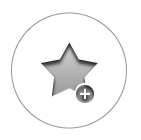
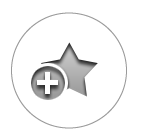
Variables/methods: ------------------
Implemented circular menu buttons share page and finger model.

Added SHARE_GESTURE variable in SwifteeApplication, TODO share URL and name not only name. 

Single/Multi finger interation implemented and works like charm. 

Located Help button inside Settings.

On FloatingCursor implemented new moveHitTest() with single finger timers that now change the ring color. 

On BrowserActivity I implemented setRingcolor() to change the rings color timeout on single finger operation model.
TODO, the execution selection is still blue.

Assets:
-------

Circular Menu new buttons. Share page and single/multi finger operations. 
Share gesture library "share_gestures".

Changed region(s): [[0.1986, 0.4286, 0.5106, 0.7143], [0.5106, 0.5714, 0.6809, 0.7429]]

diff --git a/PadKite/src/com/roamtouch/floatingcursor/FloatingCursor.java b/PadKite/src/com/roamtouch/floatingcursor/FloatingCursor.java
@@ -1,6 +1,7 @@
 package com.roamtouch.floatingcursor;
 
 import java.net.URISyntaxException;
+import java.util.HashMap;
 
 import org.metalev.multitouch.controller.MultiTouchController;
 import org.metalev.multitouch.controller.MultiTouchController.MultiTouchObjectCanvas;
@@ -21,6 +22,7 @@ import android.graphics.Region;
 import android.graphics.drawable.BitmapDrawable;
 import android.os.Handler;
 import android.os.Looper;
+import android.os.Message;
 import android.os.SystemClock;
 import android.os.Vibrator;
 import android.text.ClipboardManager;
@@ -82,7 +84,7 @@ public class FloatingCursor extends FrameLayout implements MultiTouchObjectCanva
 	/**
 	 * Calculate the touching radius for FP 
 	 */
-		private final float RADIUS_DIP = 100; // 64dip=10mm, 96dip=15mm, 192dip=30mm expressed in DIP
+		private final float RADIUS_DIP = 110; // 64dip=10mm, 96dip=15mm, 192dip=30mm expressed in DIP
 		private final float scale = getContext().getResources().getDisplayMetrics().density;
 		private final int RADIUS = (int) (RADIUS_DIP * scale + 0.5f); //Converting to Pixel
 		private final int INNER_RADIUS = (int) (RADIUS*0.3f);
@@ -124,6 +126,7 @@ public class FloatingCursor extends FrameLayout implements MultiTouchObjectCanva
 
 		static final int ANIMATED_SCROLL_GAP = 250;
 		static final float MAX_SCROLL_FACTOR = 0.5f;
+		private static final String FOCUS_NODE_HREF = null;
 	
 		private Scroller mScroller;
 	
@@ -499,7 +502,7 @@ public class FloatingCursor extends FrameLayout implements MultiTouchObjectCanva
 			dbConnector = app.getDatabase();
 		}
         public String getCurrentURL(){ //JOSE USE TO SHARE PAGE
-        	return mWebView.getUrl();
+        	return mWebView.getUrl();        	
         }
         public String getCurrentTitle(){ //JOSE USE TO SHARE PAGE
         	return mWebView.getTitle();
@@ -1022,15 +1025,14 @@ public class FloatingCursor extends FrameLayout implements MultiTouchObjectCanva
 
 				case WebHitTestResult.SRC_ANCHOR_TYPE:
 				case WebHitTestResult.IMAGE_ANCHOR_TYPE: {
-					cType = 6;
+					cType = 6;		
 					resultType = WebHitTestResult.ANCHOR_TYPE;
 					cursorImage = R.drawable.link_cursor;
 					// String tooltip = mWebHitTestResult.getToolTip();
 					boolean contains;
 					contains = selectedLink.contains("padkite.local.contact");
 					if (contains){
-						String[] contactId = selectedLink.split("id=");
-						Log.v("CULO", ""+contactId[1]);
+						String[] contactId = selectedLink.split("id=");						
 					}			
 					
 					if (selectedLink == "")
@@ -1123,6 +1125,22 @@ public class FloatingCursor extends FrameLayout implements MultiTouchObjectCanva
 				mWebHitTestResultIdentifer = identifier;
 			}	
 		};//end of moveHitTest
+		
+		
+		 /** 
+	     * Handle system messages here. 
+	     */ 
+		
+	    public void dispatchMessage(Message msg) { 
+	    	
+	    	String url = (String)msg.getData().get("url");
+	    	String title = (String)msg.getData().get("title");
+	    	Log.v("VER", "url: "+url);
+	    	Log.v("VER", "title: "+title);
+	    	
+	    	
+	       
+	    } 
 		
 		/**
 		 * SFOM If SINGLE_FINGER_OPERATION_MODE at SwifteeApplication is true the

diff --git a/PadKite/src/com/roamtouch/swiftee/SwifteeApplication.java b/PadKite/src/com/roamtouch/swiftee/SwifteeApplication.java
@@ -19,19 +19,21 @@ import android.os.Environment;
 
 public class SwifteeApplication extends Application{
 
+	// POSITION 0 = "Cursor Gestures"	
 	public static final int CURSOR_TEXT_GESTURE = 1;
 	public static final int CURSOR_LINK_GESTURE = 2;
 	public static final int CURSOR_IMAGE_GESTURE = 3;
 	public static final int CURSOR_NOTARGET_GESTURE = 4;
 	public static final int CURSOR_VIDEO_GESTURE = 5;
+	// POSITION 6 = "Circular Menu Gestures"	
 	public static final int BOOKMARK_GESTURE = 7;
-	public static final int CUSTOM_GESTURE = 8;
-	public static final int MAIL_GESTURE = 8;
+	public static final int SHARE_GESTURE = 8;
+	public static final int CUSTOM_GESTURE = 9;	
 	
 	//Single or multi finger operations, true defaul. //SFOM 
 	private static boolean finger_mode = true;   
 	public static boolean getFingerMode() {return finger_mode; }
-    public static void setFingerMode(boolean mode) { finger_mode = mode; }   
+    public static void setFingerMode(boolean mode) { finger_mode = mode; } 
 	
 	private DBConnector database;
 	
@@ -206,6 +208,11 @@ public class SwifteeApplication extends Application{
 			case BOOKMARK_GESTURE:
 				//mLibrary = GestureLibraries.fromRawResource(this, R.raw.bookmarks);
 				mLibrary = GestureLibraries.fromFile(BrowserActivity.BASE_PATH + "/Gesture Library/bookmarks");
+				mLibrary.load();
+				break;
+			case SHARE_GESTURE:				
+				//mLibrary = GestureLibraries.fromRawResource(this, R.raw.bookmarks);
+				mLibrary = GestureLibraries.fromFile(BrowserActivity.BASE_PATH + "/Gesture Library/share_gestures");
 				mLibrary.load();
 				break;
 		}		

diff --git a/PadKite/src/com/roamtouch/swiftee/BrowserActivity.java b/PadKite/src/com/roamtouch/swiftee/BrowserActivity.java
@@ -99,7 +99,7 @@ public class BrowserActivity extends Activity implements OnGesturePerformedListe
 	private SelectionGestureView mSelectionGesture;
 
 	private FloatingCursor floatingCursor;
-	private EventViewerArea eventViewer;
+	public EventViewerArea eventViewer;
 	private GestureLibrary mLibrary;
 //	private TopBarArea mTopBarArea;
 	
